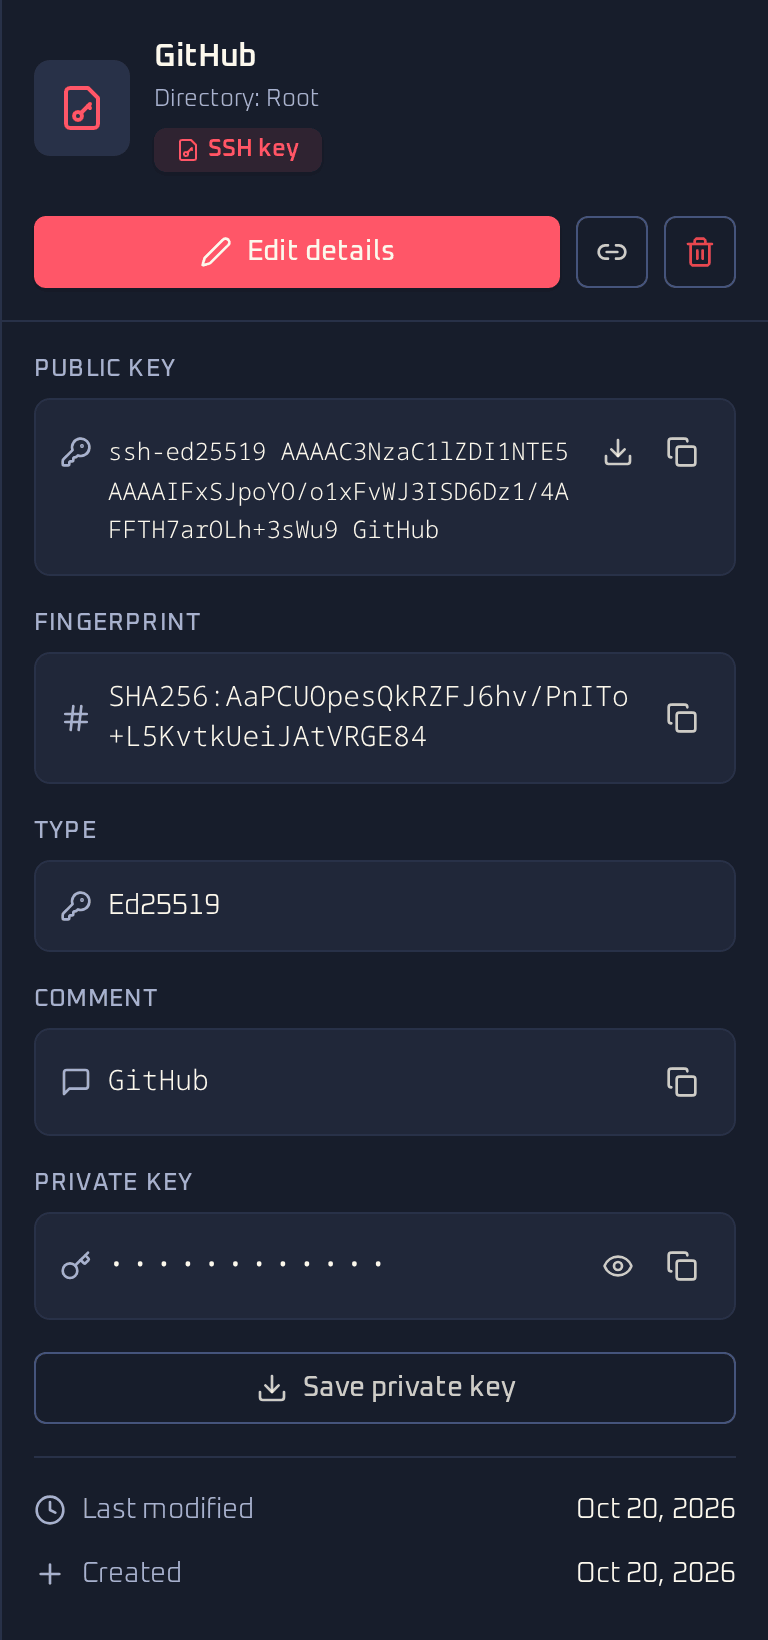
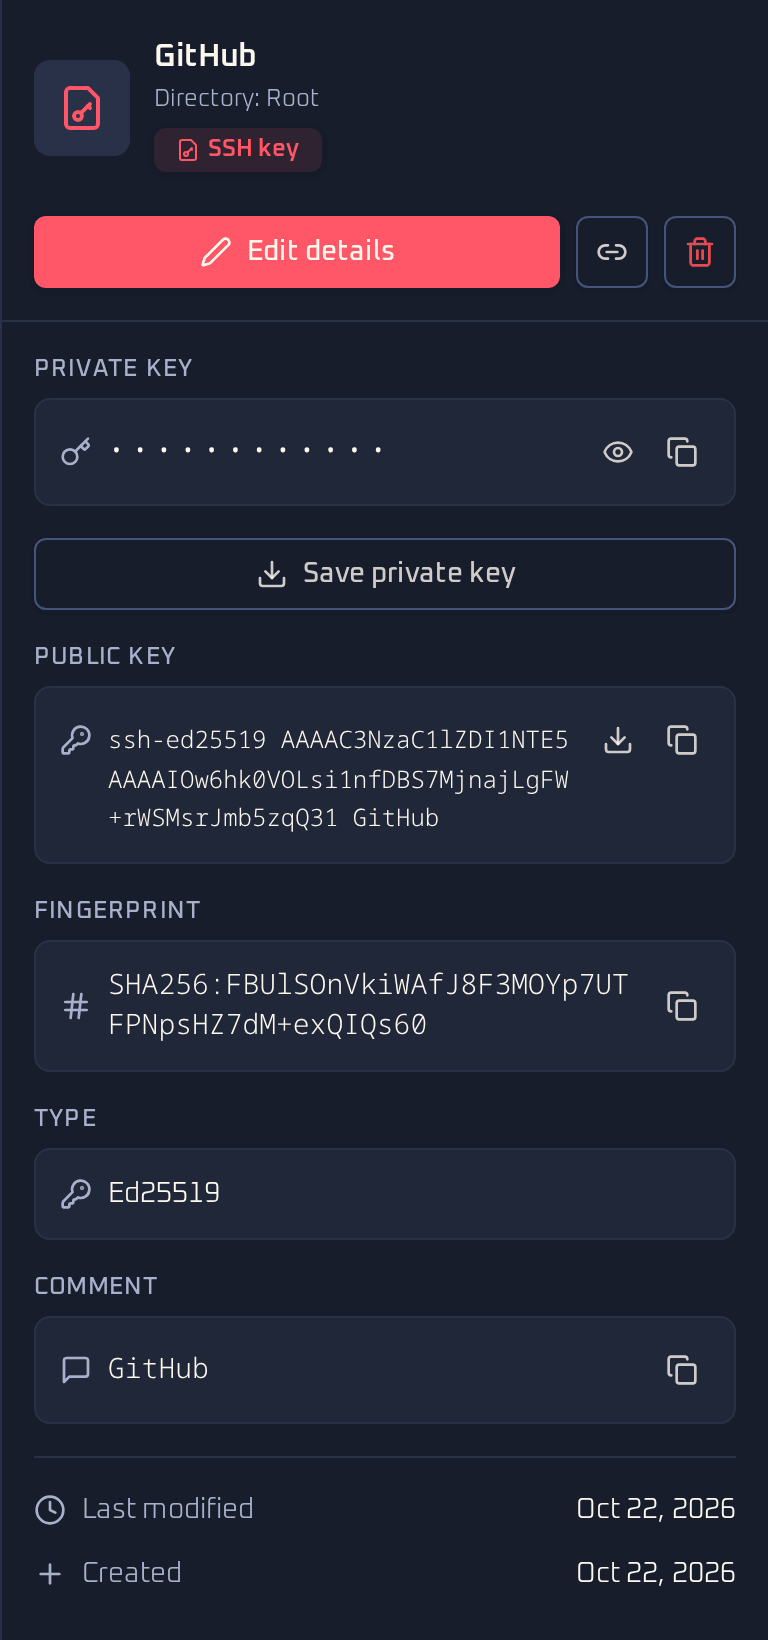
fix(ssh-keys): show SSH key fields with the private key first

diff --git a/mobile/src/components/vault/ssh-key-details.tsx b/mobile/src/components/vault/ssh-key-details.tsx
@@ -91,6 +91,30 @@ export function SSHKeyDetails({ credential }: { credential: VaultCredential }) {
     return (
         <View>
             <CopyableField
+                label="Private key"
+                value={typeof privateKey === "object" ? privateKey.text : ""}
+                secret
+                onCopyFailed={copyFailed}
+                status={
+                    privateKey === "error"
+                        ? {
+                              error: LOAD_FAILED,
+                              onRetry: () => void loadPrivateKey(),
+                          }
+                        : privateKey === "loading"
+                          ? "loading"
+                          : undefined
+                }
+                actions={
+                    <IconButton
+                        icon={Download}
+                        label="Save private key"
+                        color={colors.muted}
+                        onPress={() => setSaveOpen(true)}
+                    />
+                }
+            />
+            <CopyableField
                 label="Public key"
                 value={publicLine}
                 publicValue
@@ -131,30 +155,6 @@ export function SSHKeyDetails({ credential }: { credential: VaultCredential }) {
                 value={data.Comment}
                 publicValue
                 onCopyFailed={copyFailed}
-            />
-            <CopyableField
-                label="Private key"
-                value={typeof privateKey === "object" ? privateKey.text : ""}
-                secret
-                onCopyFailed={copyFailed}
-                status={
-                    privateKey === "error"
-                        ? {
-                              error: LOAD_FAILED,
-                              onRetry: () => void loadPrivateKey(),
-                          }
-                        : privateKey === "loading"
-                          ? "loading"
-                          : undefined
-                }
-                actions={
-                    <IconButton
-                        icon={Download}
-                        label="Save private key"
-                        color={colors.muted}
-                        onPress={() => setSaveOpen(true)}
-                    />
-                }
             />
             <SavePrivateKeyDialog
                 open={saveOpen}

diff --git a/web/src/components/vault-dashboard/credential-detail.tsx b/web/src/components/vault-dashboard/credential-detail.tsx
@@ -542,6 +542,22 @@ function SSHKeyDetails({
 
     return (
         <>
+            <SSHPrivateKeyField
+                key={credential.ID}
+                sshKey={sshKey}
+                isCopied={copiedField === "ssh-private-key"}
+                onCopy={(value) => onCopy("ssh-private-key", value, true)}
+            />
+
+            <Button
+                variant="outline"
+                className="w-full gap-2"
+                onClick={() => setIsDownloadOpen(true)}
+            >
+                <Download className="h-4 w-4" />
+                Save private key
+            </Button>
+
             <div className="group min-w-0">
                 <FieldLabel>Public key</FieldLabel>
                 <div className="flex min-w-0 items-start gap-2 overflow-hidden rounded-lg border border-border bg-muted/50 p-3 transition-colors group-hover:border-primary/30">
@@ -624,22 +640,6 @@ function SSHKeyDetails({
                     onCopy={() => onCopy("ssh-comment", sshKey.Comment)}
                 />
             ) : null}
-
-            <SSHPrivateKeyField
-                key={credential.ID}
-                sshKey={sshKey}
-                isCopied={copiedField === "ssh-private-key"}
-                onCopy={(value) => onCopy("ssh-private-key", value, true)}
-            />
-
-            <Button
-                variant="outline"
-                className="w-full gap-2"
-                onClick={() => setIsDownloadOpen(true)}
-            >
-                <Download className="h-4 w-4" />
-                Save private key
-            </Button>
 
             <SSHKeyDownloadDialog
                 open={isDownloadOpen}

diff --git a/web/src/pages/docs/ssh-keys.tsx b/web/src/pages/docs/ssh-keys.tsx
@@ -176,8 +176,8 @@ export default function SSHKeys() {
             <DocSection id="download" title="Use a key on a computer">
                 <DocScreenshot
                     src="/images/docs/ssh-keys-web-details.png"
-                    alt="SSH key item GitHub showing its public key, fingerprint, type Ed25519, comment, a hidden private key and a Save private key button"
-                    caption="Open the item to copy or save the public key, see its fingerprint, or save the private key."
+                    alt="SSH key item GitHub showing a hidden private key, a Save private key button, then its public key, fingerprint, type Ed25519 and comment"
+                    caption="Open the item to save the private key, copy or save the public key, or see its fingerprint."
                     width={768}
                     height={1640}
                 />
